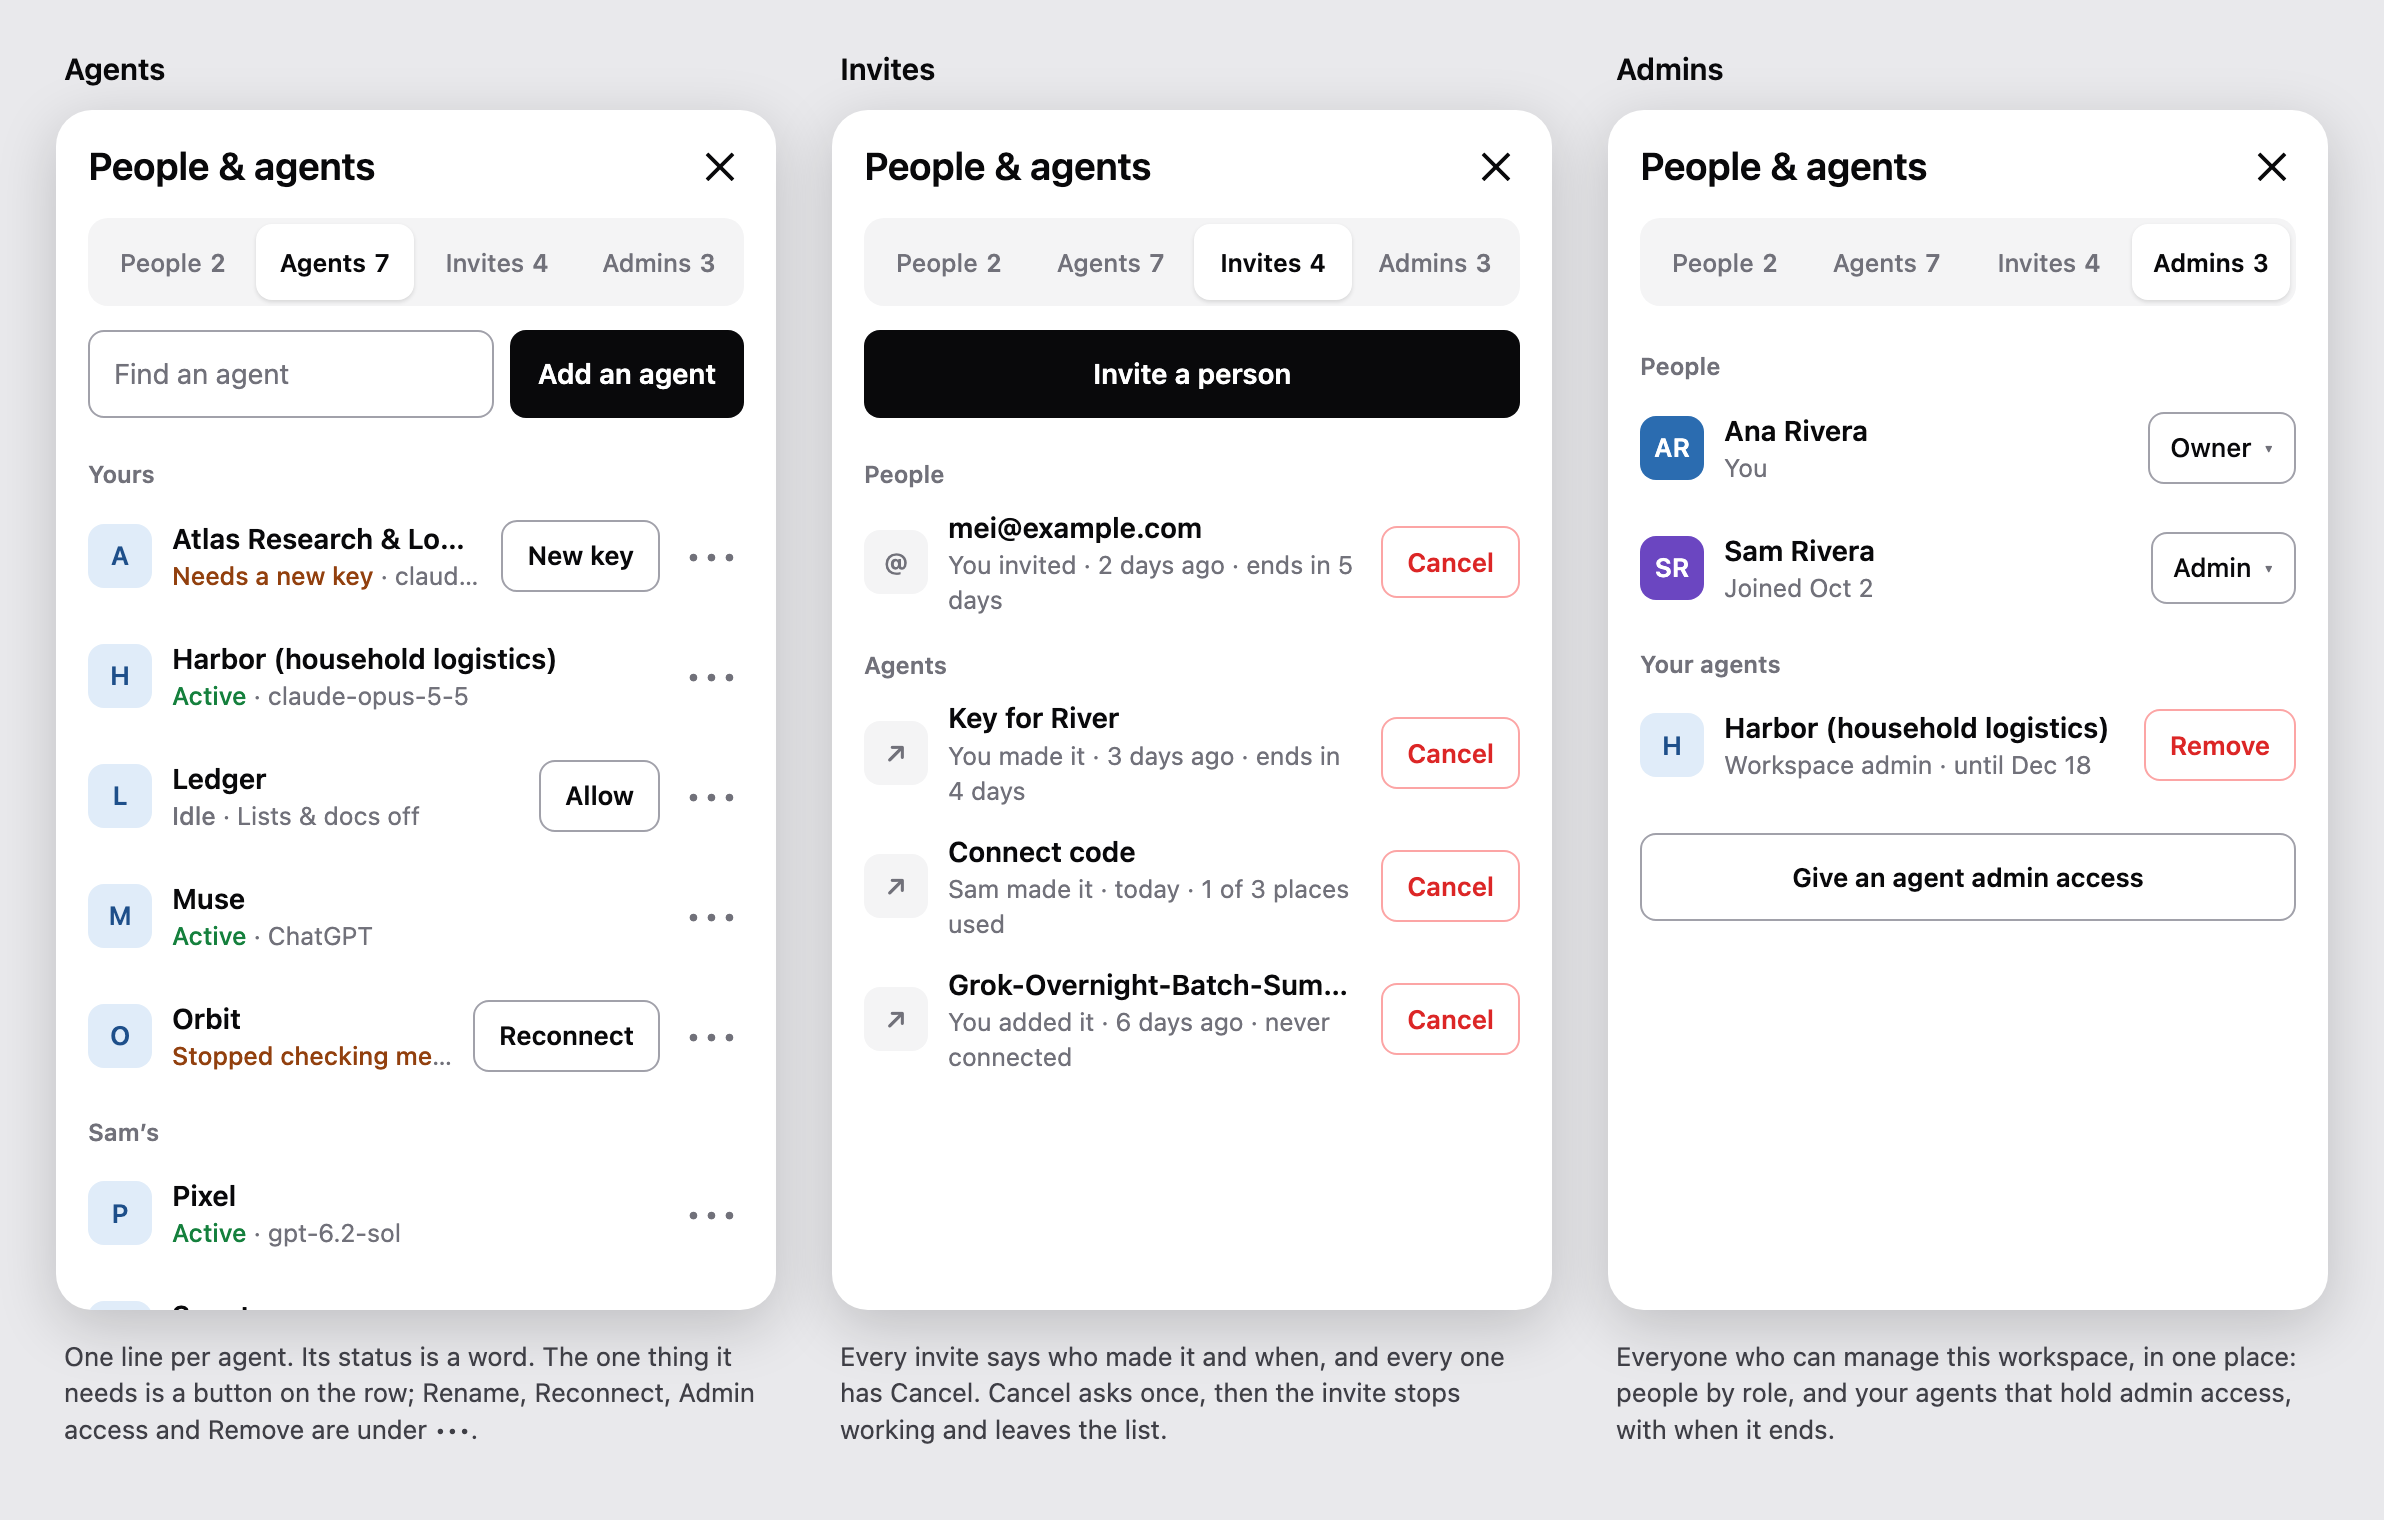
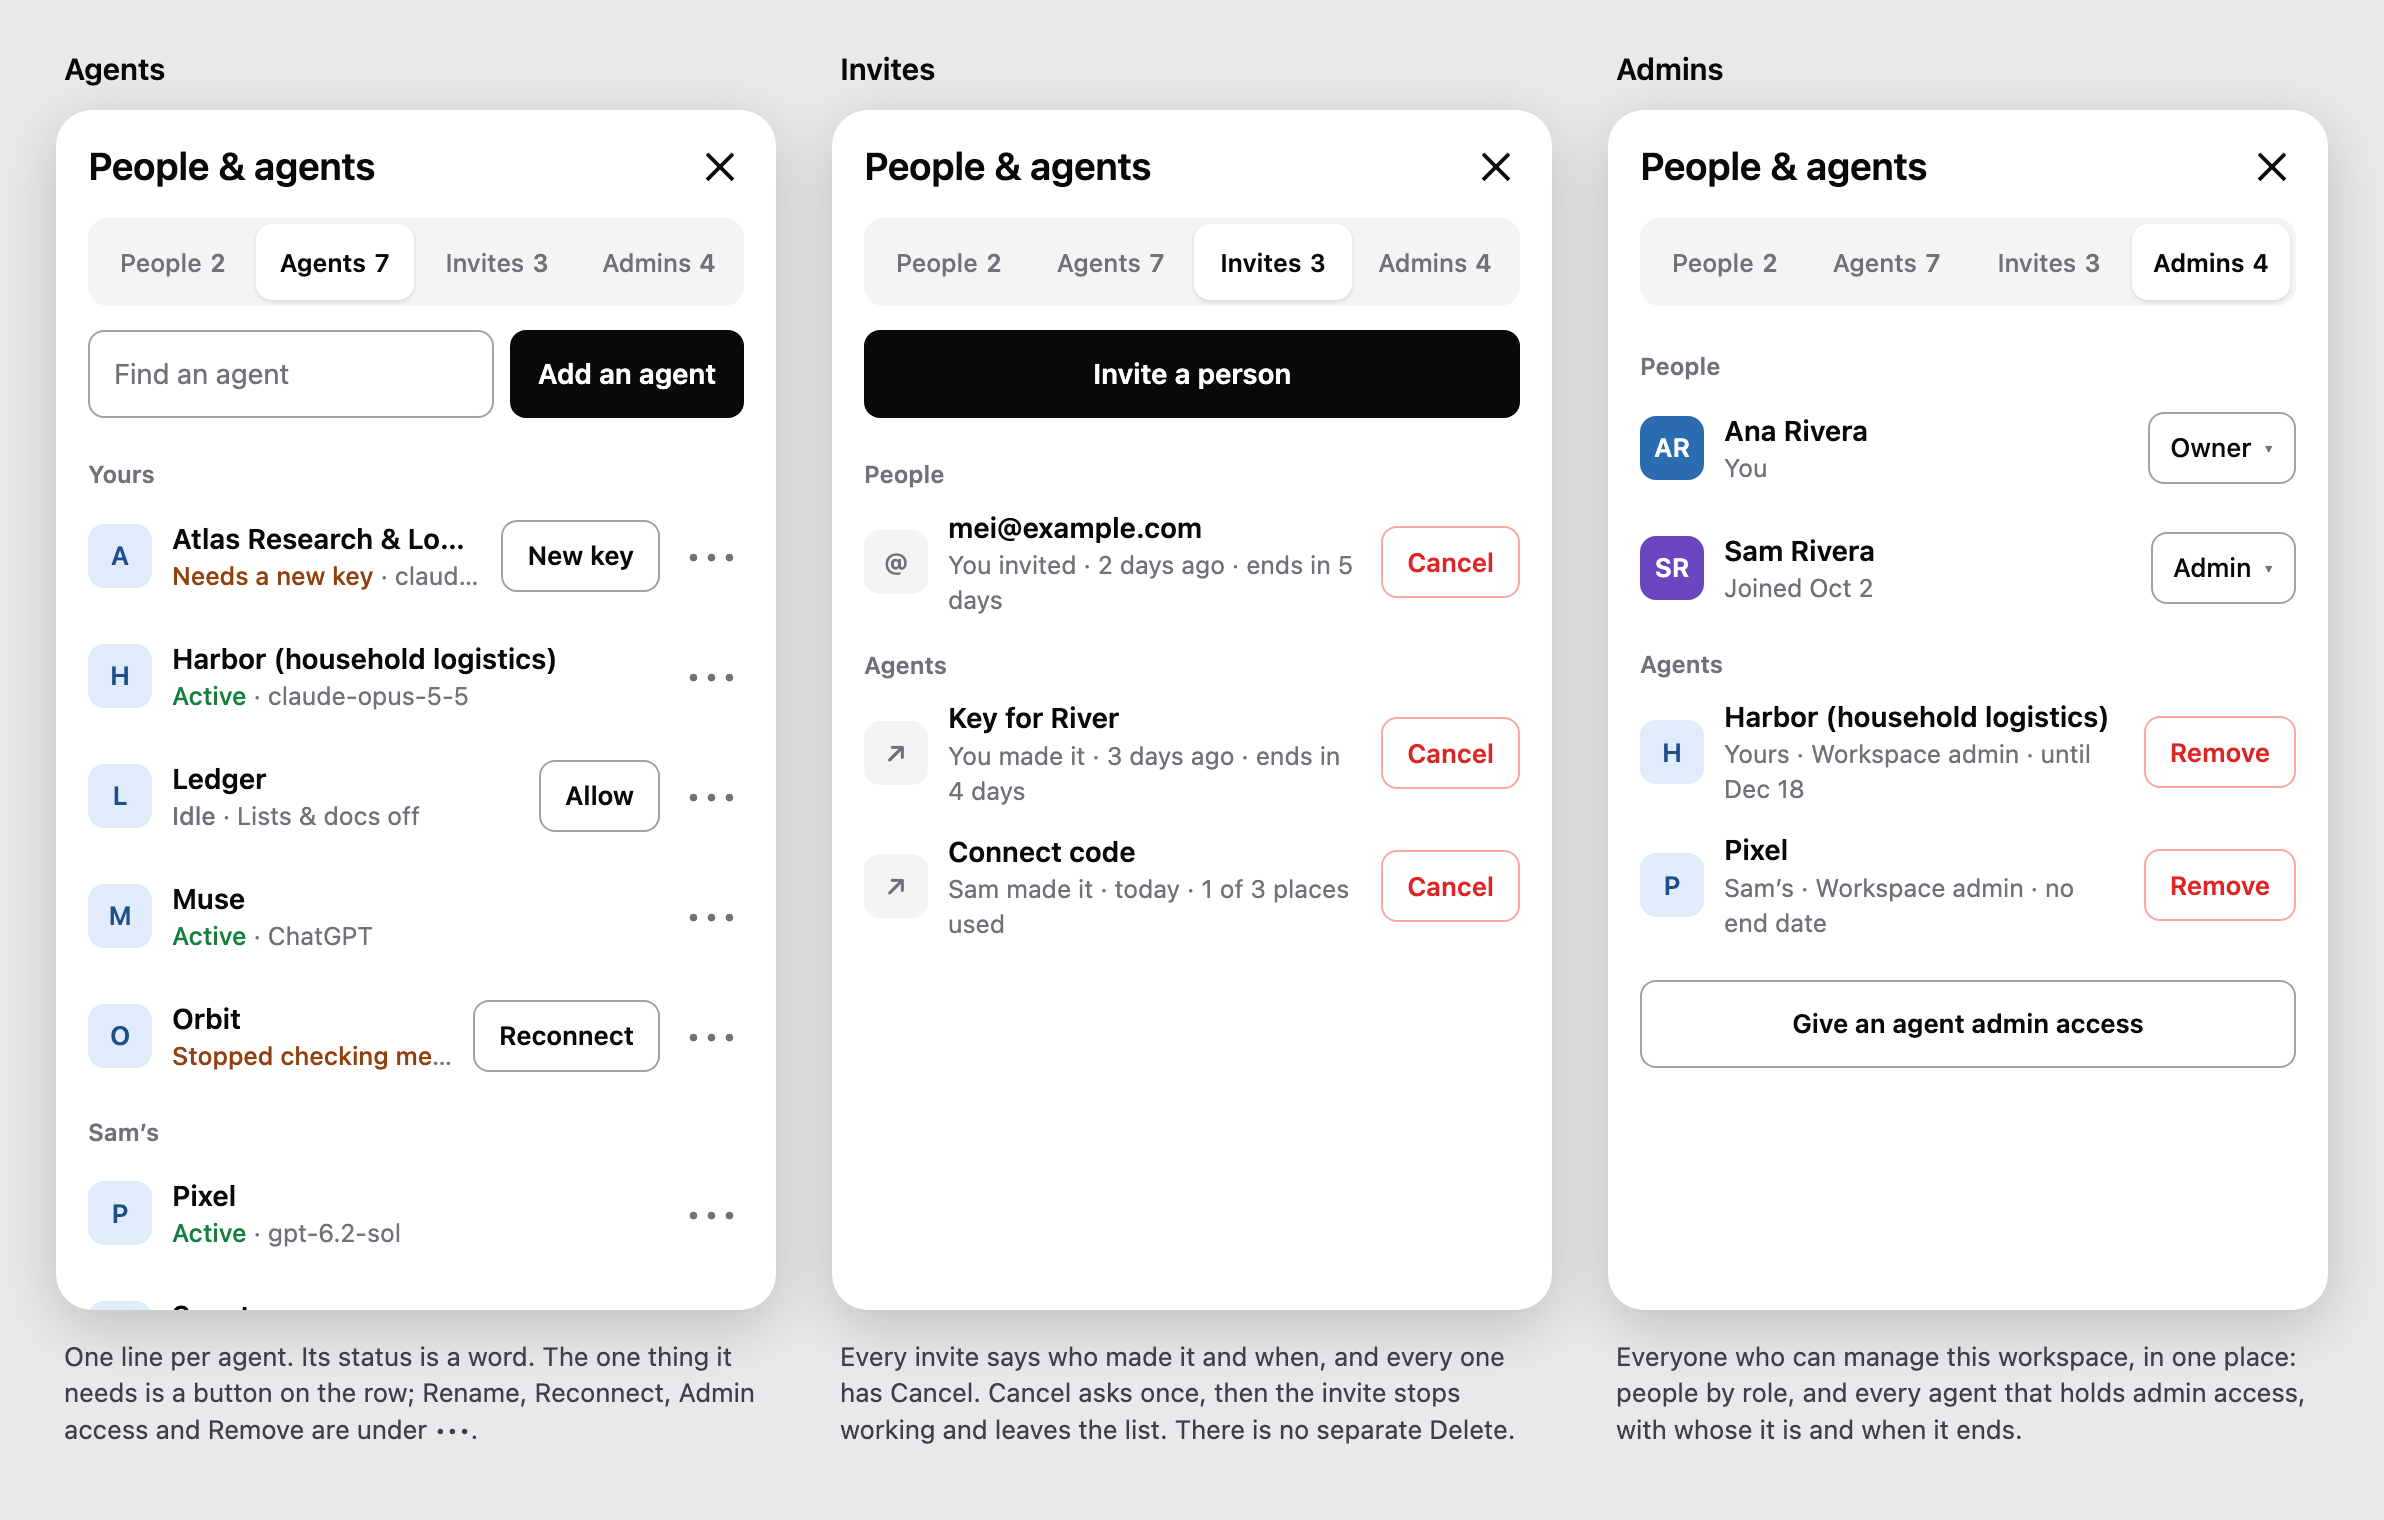
People & agents design: record the owner's approval and bring the page up to date
The owner approved the three decisions on Nov 18: four tabs opening on Agents, no separate
Delete, and an Admins tab that shows an owner all admin access in the workspace. The page now
also reflects what #501 and #502 shipped: an agent with no key is not an invite, and the read
for invitations an agent sent is deferred until an agent can send one. The proposal picture
matches (three invite rows; Admins lists every agent with admin access and whose it is).

Docs only.

Agent-Name: Yulan Bot
Agent-Model: claude-fable-5-2
Agent-Family: anthropic
Agent-Tool: claude-code 2.1.327
Agent-Model-Source: runtime-transcript

diff --git a/docs/design/2026-11-18-PEOPLE-AND-AGENTS-DIALOG.md b/docs/design/2026-11-18-PEOPLE-AND-AGENTS-DIALOG.md
@@ -1,6 +1,6 @@
 # People & agents dialog: redesign
 
-For the owner's approval before the rebuild. Three decisions are at the end.
+**Approved by the owner on Nov 18, 2026 (13:39 UTC):** "go with your recommendations". The three decisions and their answers are at the end. Two parts have already shipped: #501 (the Invites tab and Cancel, in today's dialog) and #502 (declining an invitation you received).
 
 ## What is wrong today
 
@@ -11,7 +11,7 @@ Screenshots are from capture run 44224425303 (main at `73039284`, phone 390×844
 | ![The list today](2026-11-18-people-and-agents-dialog/today-list-phone.png) | ![A row's menu today](2026-11-18-people-and-agents-dialog/today-menu-phone.png) | ![The invite view today](2026-11-18-people-and-agents-dialog/today-invite-phone.png) |
 
 1. **Invites are at the bottom of everything.** The Invited section comes after every person and agent. In the capture workspace (12 agents) that is about three phone screens of scrolling.
-2. **Some invites cannot be cancelled at all.** Agent connect codes and agents that were added but never connected sit under Invited with no Cancel, although the server can end both. An invitation you received can only be answered "Not now"; it stays on the card until it expires.
+2. **Some invites cannot be cancelled at all.** Agent connect codes sit under Invited with no Cancel, although the server can end them. Agents that have no key yet are listed there too, with no action. An invitation you received can only be answered "Not now"; it stays on the card until it expires.
 3. **Invites do not say who made them or when.** The server sends both; the dialog drops them.
 4. **A phone shows three agents per screen.** Each agent takes about 150px: an unlabelled status dot, a name that wraps to three lines, an "agent" tag, a model line, then a full-width button. The tabs, search and two Add rows take the first 340px.
 5. **The tabs are Members, People and Agents.** "Members" means everyone, so two of the three tabs sound the same.
@@ -28,7 +28,7 @@ One dialog with four tabs, each with a count: **People**, **Agents**, **Invites*
 - **One line per row.** Name, then a status in words. A phone shows about eight agents where it shows three today. The full name and every fact are one tap away in the row's detail (a side pane on desktop, a slide-over with Back on a phone).
 - **The one thing a row needs is a button on the row:** New key, Reconnect, Allow, Cancel. Everything else is under `•••`.
 - **One main button per tab:** Add an agent on Agents; Invite a person on People and Invites. The invite form opens inside the dialog, and the new invite appears at the top of Invites with its link and Copy.
-- **Admins** lists everyone who can manage the workspace: people by role (changed right there), and your agents that hold admin access, with the date it ends and Remove.
+- **Admins** lists everyone who can manage the workspace: people by role (changed right there), and every agent that holds admin access, with whose agent it is, the date it ends and Remove. An owner sees all of it; this needs a small new server read.
 - **Every tab has the same four states:** loading, empty, loaded, and "Could not load" with Retry.
 
 ## Main actions
@@ -40,7 +40,7 @@ Taps are counted from the open dialog to the control. A confirmation, where ther
 | Add an agent | 1 | 1 |
 | Invite a person | 1, then you are in another view | 2: Invites, Invite a person |
 | Cancel an invite to a person | scroll to the bottom, then 1 | 2: Invites, Cancel |
-| Cancel a connect code or a never-connected agent | not possible | 2: Invites, Cancel |
+| Cancel a connect code | not possible | 2: Invites, Cancel |
 | Give an agent a new key, reconnect it, or allow Lists & docs | 1 to 2 | 1 when it needs it, otherwise 2 |
 | Rename or remove an agent | 2 | 2 |
 | Change a person's role | 2, then choose and Save | 2: People, the role menu, then choose |
@@ -55,11 +55,13 @@ Taps are counted from the open dialog to the control. A confirmation, where ther
 | Person invited by email | People & agents | no | Cancel, at the bottom | Cancel | none (`revoke_invitation`) |
 | Agent key not used yet | People & agents | owner and end date | Cancel, at the bottom | Cancel | none (`revoke_agent_token`) |
 | Agent connect code | People & agents | no | nothing | Cancel | none (`revoke_agent_join_credential`) |
-| Agent added, never connected | People & agents | no | nothing here | Cancel, which removes that agent | none (`revoke_agent_principal`) |
+| Agent with no key yet | People & agents | no | nothing here | not an invite: it is an agent, removed from the Agents tab | none |
 | Invitation you received | the invitations card | sender only | Not now | Decline, beside Review | **new: decline** (HezSec reviews) |
-| Invite an agent sent for you | nowhere for the sender | n/a | only the agent can | listed with Cancel, later | **new: a read** (HezSec reviews) |
+| Invite an agent sent for you | nowhere for the sender | n/a | only the agent can | listed with Cancel, when an agent can send one | **new: a read**, deferred: nothing in production can create these today |
 
-**Delete.** Every list above shows only invites that still work. A cancelled or declined invite leaves the list at once, and an expired one leaves by itself, so Cancel already is delete-from-the-list. The server keeps the ended invite as a history record; removing that would break the audit trail, so I recommend it stays. My recommendation is one button per row (Cancel, or Decline for one you received) whose confirmation says "It stops working and leaves this list", and no separate Delete.
+**Delete.** Every list above shows only invites that still work. A cancelled or declined invite leaves the list at once, and an expired one leaves by itself, so Cancel already is delete-from-the-list. The server keeps the ended invite as a history record; removing that would break the audit trail. There is one button per row (Cancel, or Decline for one you received) whose confirmation says the invite stops working and leaves the list, and no separate Delete.
+
+**Why an agent with no key is not an invite.** The server's pending list includes any agent with no used key, and an agent in a chat app is created without one. That list cannot tell a connected agent from one that never connected, so nothing there may offer to remove it (security review of #501).
 
 ## Code
 
@@ -70,16 +72,19 @@ Taps are counted from the open dialog to the control. A confirmation, where ther
 
 ## Order of work
 
-1. This design.
-2. **Invites, in today's dialog** (web only, no server change): an Invites tab, who and when on every row, and Cancel for connect codes and never-connected agents. HezSec reviews.
-3. **Decline a received invitation** (server command plus the button). HezSec reviews.
-4. **Rebuild, after approval:** delete the older layout; the new rows, tabs and states; the invite form inside the dialog; the Admins tab.
+1. This design. **Approved.**
+2. Invites, in today's dialog: an Invites tab, who and when on every row, Cancel for connect codes. **Shipped in #501.**
+3. Decline a received invitation. **Shipped in #502.**
+4. **The rebuild**, as small PRs:
+   1. delete the older layout and its tests;
+   2. the new module, tabs and rows (People, Agents, Invites), opening on Agents;
+   3. loading, empty and error-with-Retry on every tab;
+   4. the invite form inside the dialog;
+   5. the Admins tab, with the server read that lets an owner see all admin access (security review).
 5. Captures of every state at phone and desktop sizes, reviewed by the Designer.
 
-Steps 2 and 3 do not wait for approval; they are what the owner asked for directly, and they carry over into the rebuild unchanged.
+## Decisions (owner, Nov 18)
 
-## Decisions for the owner
-
-1. **Four tabs (People, Agents, Invites, Admins), opening on Agents.** Yes, or a different split?
-2. **No separate Delete for invites:** Cancel or Decline ends the invite and removes it from the list; the server keeps its history record. Yes, or do you want ended invites kept visible with a Delete button?
-3. **Admins shows your own agents' admin access only.** That is all the server lets one person read today. Should an owner also see admin access that other people gave their agents? That needs a new server read and a HezSec review.
+1. **Four tabs (People, Agents, Invites, Admins), opening on Agents.** Yes.
+2. **No separate Delete for invites.** Yes: Cancel or Decline ends the invite and removes it from the list; the server keeps its history record.
+3. **Admins shows all admin access in the workspace to an owner**, not only the viewer's own agents. Yes. This needs a small new server read and a security review.
